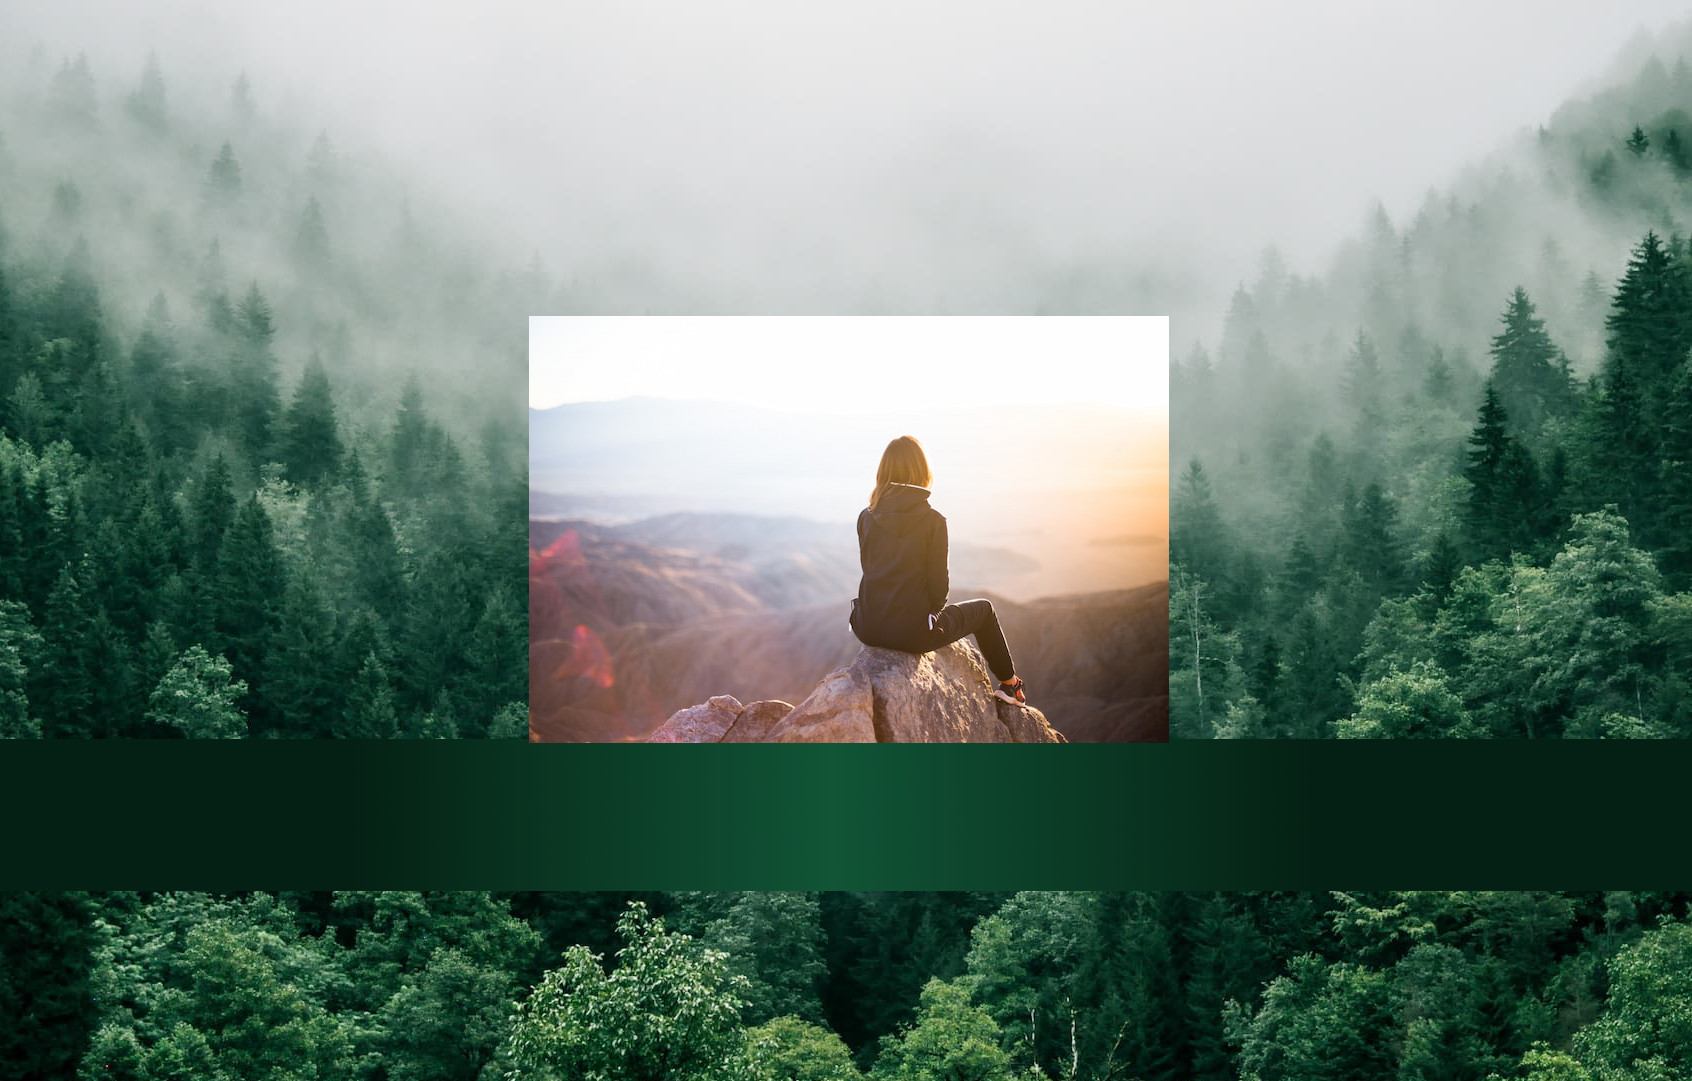
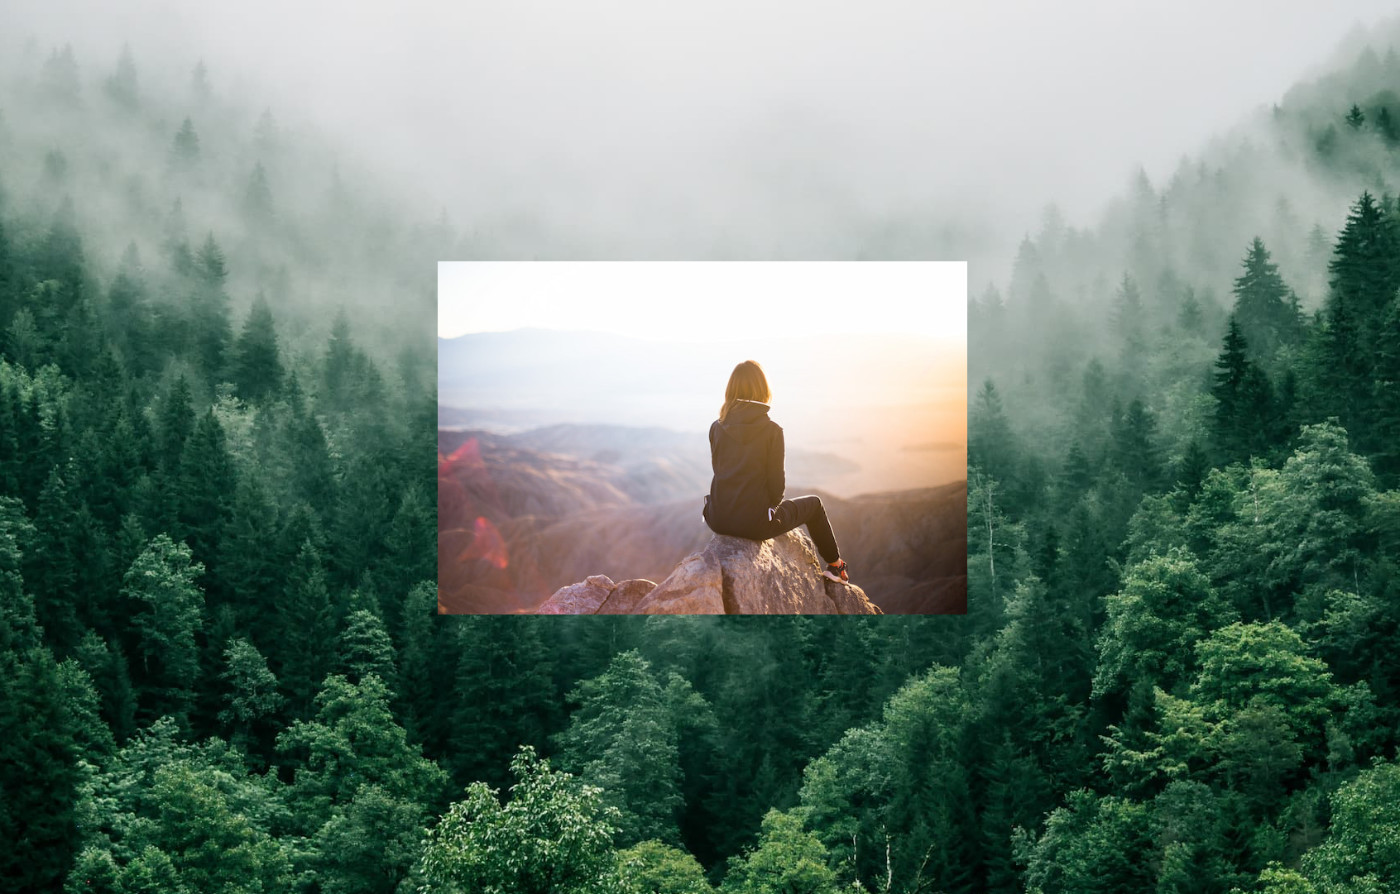
endjuly2

Changed region(s): [[0.0, 0.6644, 0.9829, 0.8456]]

diff --git a/src/components/BannerCard.js b/src/components/BannerCard.js
@@ -31,6 +31,8 @@ export default function Card({index, title, body, body2}) {
             </div>
         </div>
     </div>
-    <h2 className='h2two' style={{color:"white", textAlign:"center", marginTop:"20vh", lineHeight:'1'}}>Take the First Step with Me!</h2>
-    </>
+    <div style={{background:"#163014", textAlign:"center", paddingBlock:'1rem',marginTop:"20vh"}}>
+        <h2 className='h2two' style={{color:"white", textAlign:"center", lineHeight:'1'}}>Take the First Step with Me!</h2>
+    </div>
+   </>
     )};
